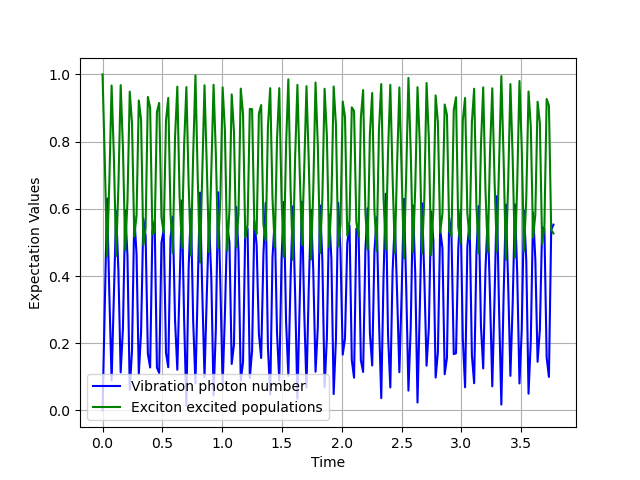
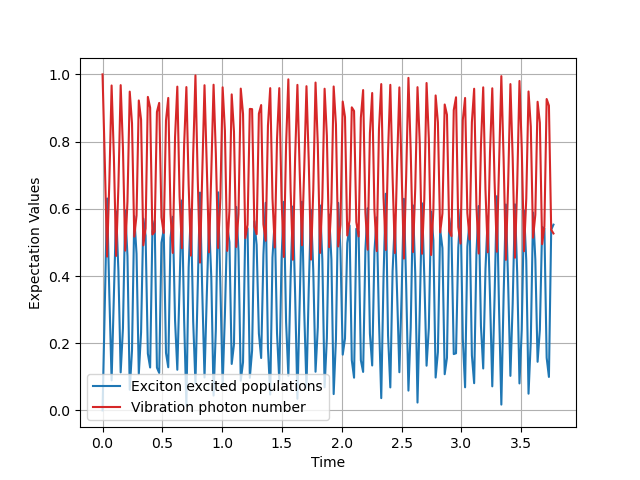
Adds improved plots for the Exciton Vibration simulation.

Changed region(s): [[0.1562, 0.1562, 0.875, 0.875]]

diff --git a/Research Project/Code/ExVib_Open.py b/Research Project/Code/ExVib_Open.py
@@ -11,9 +11,9 @@ import math
 # g = w*(0.0578)^0.5 = 267 cm^-1
 # Moreover, T ~ 300K room temp expt.
 
-t_max = 500.0 # ps
-tlist = np.linspace(0.0, 2 *np.pi * 0.03 * t_max , 500)  
-# TODO : conversion within class tlist_cm = tlist * 2 *np.pi * 3**(-2)  
+t_max = 5.0  # ps
+tlist = np.linspace(0.0, 2 * np.pi * 0.03 * t_max, 300)
+# TODO : conversion within class tlist_cm = tlist * 2 *np.pi * 3**(-2)
 # t in cm conversion, noting original time is in ps
 
 # params, cm^-1
@@ -51,8 +51,8 @@ psi0 = q.tensor(basis_atom_e, basis_qho)
 ########################## OPEN SIM SETUP #################################
 
 # Constants
-gamma = 0.1 
-gamma_th = 0.1 
+gamma = 0.1
+gamma_th = 0.1
 T = 300
 kbT = 1.0 / (0.695 * T)
 n_omega = 1 / (np.exp(w / kbT) - 1)
@@ -60,114 +60,199 @@ n_omega = 1 / (np.exp(w / kbT) - 1)
 # Operators
 e_ops = [adag * a, s_raise * s_lower]
 
-L_tls = [np.sqrt(gamma) * s_lower]
-L_qho = [
+L_spont = [np.sqrt(gamma) * s_lower]
+L_therm = [
     np.sqrt(gamma_th) * (n_omega + 1) * a,  # photon loss
     np.sqrt(gamma_th) * n_omega * adag,  # photon gain
 ]
 
 ############################ SIMULATION ###################################
 
-# TLS
-sim_open_tls = TLSQHOSimulator(H, psi0, L_tls, e_ops, times=tlist)
-results_open_tls = sim_open_tls.evolve()
-expect_open_tls = sim_open_tls.expect(results_open_tls)
-neg_tls = sim_open_tls.negativity(results_open_tls)
-coh_tls = sim_open_tls.rel_coherence(results_open_tls)
+# Spontaneous Atomic Emission
+sim_open_spont = TLSQHOSimulator(H, psi0, L_spont, e_ops, times=tlist)
+results_open_spont = sim_open_spont.evolve()
 
-# QHO
-sim_open_qho = TLSQHOSimulator(H, psi0, L_qho, e_ops, times=tlist)
-results_open_qho = sim_open_qho.evolve()
-expect_open_qho = sim_open_qho.expect(results_open_qho)
-neg_qho = sim_open_qho.negativity(results_open_qho)
-coh_qho = sim_open_qho.rel_coherence(results_open_qho)
+expt_open_spont = sim_open_spont.expect(results_open_spont)
 
-# TLS + QHO
-L_tlsqho = L_tls + L_qho
-sim_open_tlsqho = TLSQHOSimulator(H, psi0, L_tlsqho, e_ops, times=tlist)
-results_open_tlsqho = sim_open_tlsqho.evolve()
-expect_open_tlsqho = sim_open_tlsqho.expect(results_open_tlsqho)
-neg_tlsqho = sim_open_tlsqho.negativity(results_open_tlsqho)
-coh_tlsqho = sim_open_tlsqho.rel_coherence(results_open_tlsqho)
+neg_tls_spont = sim_open_spont.negativity(results_open_spont, subsys="TLS")
+neg_qho_spont = sim_open_spont.negativity(results_open_spont, subsys="QHO")
+
+coh_tls_spont = sim_open_spont.rel_coherence(results_open_spont, subsys="TLS")
+coh_qho_spont = sim_open_spont.rel_coherence(results_open_spont, subsys="QHO")
+
+# Thermal Dissipation
+sim_open_therm = TLSQHOSimulator(H, psi0, L_therm, e_ops, times=tlist)
+results_open_therm = sim_open_therm.evolve()
+
+expt_open_therm = sim_open_therm.expect(results_open_therm)
+
+neg_tls_therm = sim_open_therm.negativity(results_open_therm, subsys="TLS")
+neg_qho_therm = sim_open_therm.negativity(results_open_therm, subsys="QHO")
+
+coh_tls_therm = sim_open_therm.rel_coherence(results_open_therm, subsys="TLS")
+coh_qho_therm = sim_open_therm.rel_coherence(results_open_therm, subsys="QHO")
+
+# Spontaneous Emission + Thermal Dissipation
+L_both = L_spont + L_therm
+sim_open_both = TLSQHOSimulator(H, psi0, L_both, e_ops, times=tlist)
+results_open_both = sim_open_both.evolve()
+
+expt_open_both = sim_open_both.expect(results_open_both)
+
+neg_tls_both = sim_open_both.negativity(results_open_both, subsys="TLS")
+neg_qho_both = sim_open_both.negativity(results_open_both, subsys="QHO")
+
+coh_tls_both = sim_open_both.rel_coherence(results_open_both, subsys="TLS")
+coh_qho_both = sim_open_both.rel_coherence(results_open_both, subsys="QHO")
 
 ############################### PLOTS #####################################
-sim_open_tls.plot(
-    expect_open_tls,
-    "Open Evolution ExVib: Spontaneous Atomic Emission (Weak Coupling)",
-    "Expectation Values",
-    "OQS_TLS_Decay",
-    "ExVib",
-    ["cavity photon number", "atom excitation probability"],
-)
 
-sim_open_tls.plot(
-    neg_tls,
-    "Open Evolution ExVib: Negativity of Atomic Emission (Weak Coupling)",
+# Negativity
+
+sim_open_spont.plot(
+    "OQS_Neg_Spont",
+    [
+        {
+            "y_data": neg_tls_spont,
+            "label": "Exciton subsystem",
+            "colour": "tab:red",
+            "linestyle": "--",
+        },
+        {
+            "y_data": neg_qho_spont,
+            "label": "Vibration subsystem",
+            "colour": "tab:blue",
+            "linestyle": ":",
+        },
+    ],
     "Negativity",
-    "OQS_TLS_Neg",
-    "ExVib",
-    ["Negativity"],
+    savepath="ExVib",
 )
 
-sim_open_tls.plot(
-    coh_tls,
-    "Open Evolution ExVib: Coherence of Atomic Emission (Weak Coupling)",
-    "Coherence",
-    "OQS_TLS_coh",
-    "ExVib",
-    ["Coherence"],
-)
-
-sim_open_qho.plot(
-    expect_open_qho,
-    "Open Evolution ExVib: QHO Photon Loss/Gain (Weak Coupling)",
-    "Expectation Values",
-    "OQS_QHO_loss",
-    "ExVib",
-    ["cavity photon number", "atom excitation probability"],
-)
-
-sim_open_tls.plot(
-    neg_qho,
-    "Open Evolution ExVib: Negativity of QHO Photon Loss/Gain (Weak Coupling)",
+sim_open_therm.plot(
+    "OQS_Neg_Therm",
+    [
+        {
+            "y_data": neg_tls_therm,
+            "label": "Exciton subsystem",
+            "colour": "tab:red",
+            "linestyle": "--",
+        },
+        {
+            "y_data": neg_qho_therm,
+            "label": "Vibration subsystem",
+            "colour": "tab:blue",
+            "linestyle": ":",
+        },
+    ],
     "Negativity",
-    "OQS_QHO_Neg",
-    "ExVib",
-    ["Negativity"],
+    savepath="ExVib",
 )
 
-sim_open_qho.plot(
-    coh_qho,
-    "Open Evolution ExVib: Coherence of QHO Photon Loss/Gain (Weak Coupling)",
-    "Coherence",
-    "OQS_QHO_coh",
-    "ExVib",
-    ["Coherence"],
-)
-
-sim_open_tlsqho.plot(
-    expect_open_tlsqho,
-    "Open Evolution ExVib: TLS and QHO Decay (Weak Coupling)",
-    "Expectation Values",
-    "OQS_TLSQHO",
-    "ExVib",
-    ["cavity photon number", "atom excitation probability"],
-)
-
-sim_open_tls.plot(
-    neg_tlsqho,
-    "Open Evolution ExVib: Negativity of both Dissipators Acting",
+sim_open_both.plot(
+    "OQS_Neg_Both",
+    [
+        {
+            "y_data": neg_tls_both,
+            "label": "Exciton subsystem",
+            "colour": "tab:red",
+            "linestyle": "--",
+        },
+        {
+            "y_data": neg_qho_both,
+            "label": "Vibration subsystem",
+            "colour": "tab:blue",
+            "linestyle": ":",
+        },
+    ],
     "Negativity",
-    "OQS_TLSQHO_Neg",
-    "ExVib",
-    ["Negativity"],
+    savepath="ExVib",
 )
 
-sim_open_tls.plot(
-    coh_tlsqho,
-    "Open Evolution ExVib: Coherence of both Dissipators Acting",
+# Coherence
+
+sim_open_spont.plot(
+    "OQS_Coh_Spont",
+    [
+        {
+            "y_data": coh_tls_spont,
+            "label": "Exciton subsystem",
+            "colour": "tab:red",
+        },
+        {
+            "y_data": coh_qho_spont,
+            "label": "Vibration subsystem",
+            "colour": "tab:blue",
+        },
+    ],
     "Coherence",
-    "OQS_TLSQHO_coh",
-    "ExVib",
-    ["Coherence"],
+    savepath="ExVib",
+)
+
+sim_open_therm.plot(
+    "OQS_Coh_Therm",
+    [
+        {
+            "y_data": coh_tls_therm,
+            "label": "Exciton subsystem",
+            "colour": "tab:red",
+        },
+        {
+            "y_data": coh_qho_therm,
+            "label": "Vibration subsystem",
+            "colour": "tab:blue",
+        },
+    ],
+    "Coherence",
+    savepath="ExVib",
+)
+
+sim_open_both.plot(
+    "OQS_Coh_Both",
+    [
+        {
+            "y_data": coh_tls_both,
+            "label": "Exciton subsystem",
+            "colour": "tab:red",
+        },
+        {
+            "y_data": coh_qho_both,
+            "label": "Vibration subsystem",
+            "colour": "tab:blue",
+        },
+    ],
+    "Coherence",
+    savepath="ExVib",
+)
+
+# Populations
+
+sim_open_spont.plot(
+    "OQS_Pop_Spont",
+    [
+        {"y_data": expt_open_spont[0], "label": "Exciton subsystem", "colour": "tab:red"},
+        {"y_data": expt_open_spont[1], "label": "Vibration subsystem", "colour": "tab:blue"},
+    ],
+    "Populations",
+    savepath="ExVib",
+)
+
+sim_open_therm.plot(
+    "OQS_Pop_Therm",
+    [
+        {"y_data": expt_open_therm[0], "label": "Exciton subsystem", "colour": "tab:red"},
+        {"y_data": expt_open_therm[1], "label": "Vibration subsystem", "colour": "tab:blue"},
+    ],
+    "Populations",
+    savepath="ExVib",
+)
+
+sim_open_both.plot(
+    "OQS_Pop_Both",
+    [
+        {"y_data": expt_open_both[0], "label": "Exciton subsystem", "colour": "tab:red"},
+        {"y_data": expt_open_both[1], "label": "Vibration subsystem", "colour": "tab:blue"},
+    ],
+    "Populations",
+    savepath="ExVib",
 )

diff --git a/Research Project/Code/ExVib_Closed.py b/Research Project/Code/ExVib_Closed.py
@@ -68,11 +68,15 @@ coh_qho = sim.rel_coherence(results, subsys="QHO")
 sim.plot(
     "CQS_expt",
     [
-        {"y_data": results_expt[0], "label": "Vibration photon number", "colour": "b"},
+        {
+            "y_data": results_expt[0],
+            "label": "Exciton excited populations",
+            "colour": "tab:blue",
+        },
         {
             "y_data": results_expt[1],
-            "label": "Exciton excited populations",
-            "colour": "g",
+            "label": "Vibration photon number",
+            "colour": "tab:red",
         },
     ],
     y_label="Expectation Values",
@@ -89,8 +93,8 @@ sim.plot(
 sim.plot(
     "CQS_coh",
     [
-        {"y_data": coh_tls, "label": "Exciton subsystem", "colour": "red"},
-        {"y_data": coh_qho, "label": "Vibration subsystem", "colour": "blue"},
+        {"y_data": coh_tls, "label": "Exciton subsystem", "colour": "tab:blue"},
+        {"y_data": coh_qho, "label": "Vibration subsystem", "colour": "tab:red"},
     ],
     y_label="Relative Entropy of Coherence",
     savepath="ExVib",

diff --git a/Research Project/Code/TLSQHOSimulator.py b/Research Project/Code/TLSQHOSimulator.py
@@ -252,7 +252,7 @@ class TLSQHOSimulator:
         for line in plot_lines:
             y_data = line["y_data"]
             label = line.get("label", None)
-            colour = line.get("colour", "r")
+            colour = line.get("colour", "tab:red")
             line_style = line.get("linestyle", "-")
             plt.plot(
                 self.times, y_data, color=colour, linestyle=line_style, label=label
